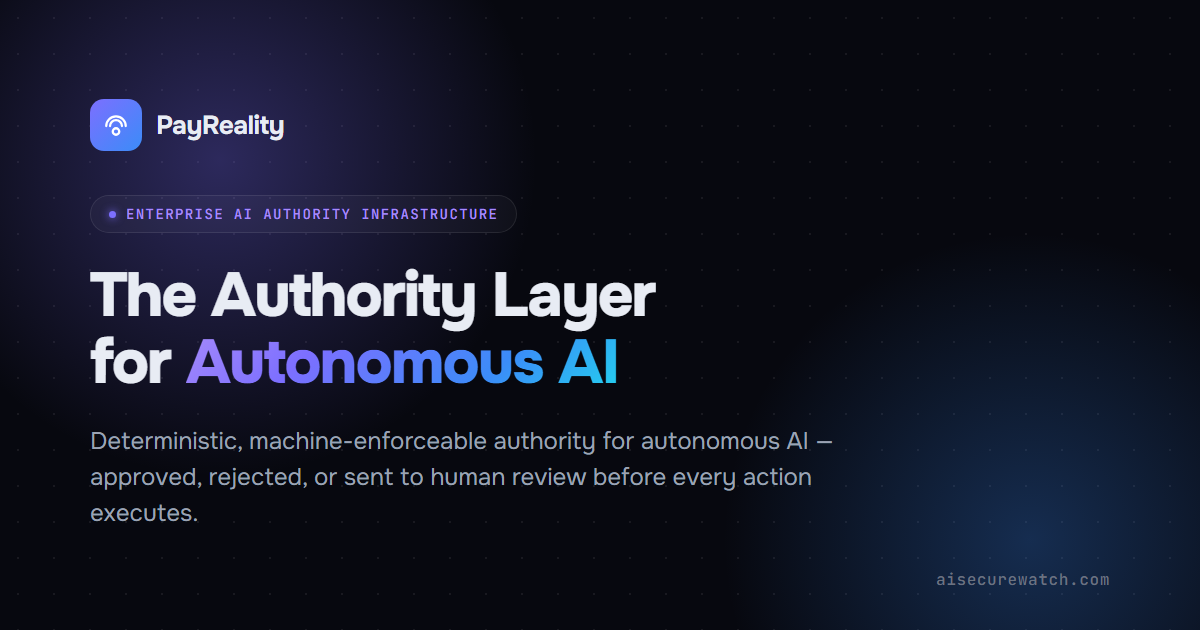
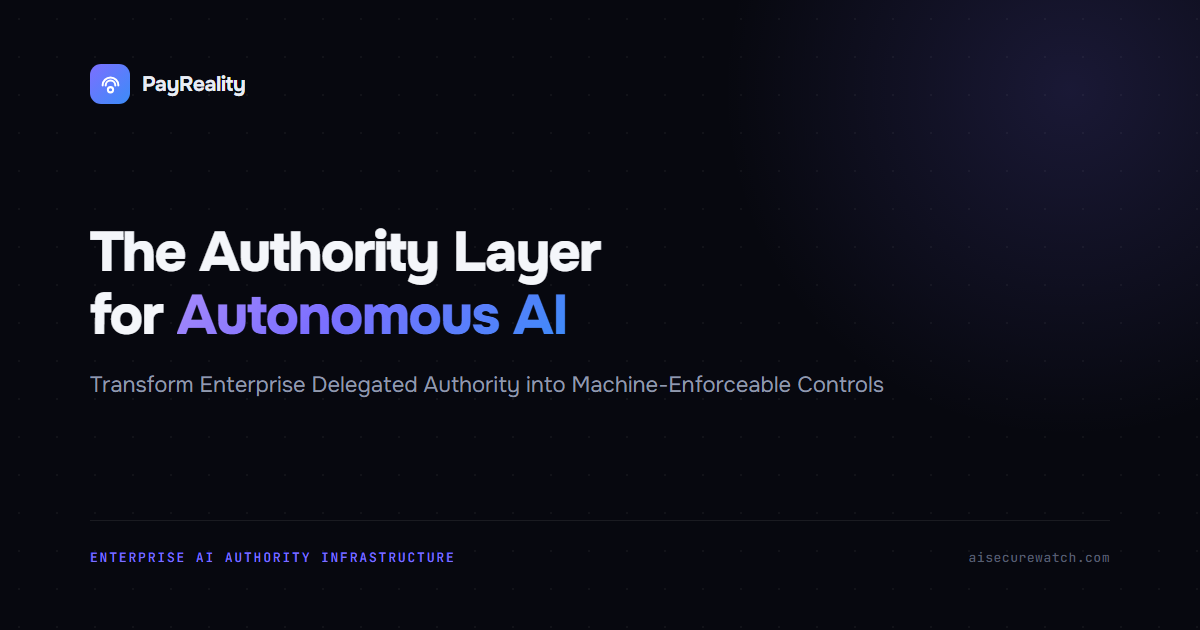
Sharpen category positioning in metadata and social card
- index.html: meta description now opens with the category name itself
  ("Enterprise AI Authority Infrastructure.") rather than generic feature
  copy, and packs in delegated authority / machine-enforceable authority /
  before-execution enforcement in <160 chars. Removed <meta name="keywords">
  (Google has ignored it since 2009). Expanded JSON-LD: added a Brand node
  for PayReality (distinct from the AI Securewatch Organization), tagged
  SoftwareApplication as ["SoftwareApplication","Product"], added
  applicationSubCategory: "Enterprise AI Authority Infrastructure" and a
  keywords property carrying the secondary concepts (Delegated Authority,
  Authority Runtime, AI Decision Infrastructure, Machine-Enforceable Policy,
  Enterprise AI Controls, Autonomous AI), and linked WebSite -> SoftwareApplication
  via "about" so the site's topic is explicit. No Founder/foundingDate added
  since neither is known — not guessing at facts.
- public/og-image.png: replaced the previous card with a more restrained
  composition matching the requested copy exactly (headline / subheading /
  footer category label), dropping the pill badge and second gradient orb
  so it reads as infrastructure branding rather than a marketing flyer.

diff --git a/index.html b/index.html
@@ -8,8 +8,7 @@
 
       <!-- Primary SEO -->
       <title>PayReality | Enterprise AI Authority Infrastructure</title>
-      <meta name="description" content="The enterprise authority layer for autonomous AI. PayReality turns delegated authority and approval policy into deterministic, machine-enforceable controls." />
-      <meta name="keywords" content="enterprise AI, AI governance, delegated authority, AI policy enforcement, AI runtime controls, AI decision infrastructure, AI authority, autonomous AI, enterprise AI security, AI risk, AI compliance, AI audit, machine enforceable policy, enterprise AI infrastructure" />
+      <meta name="description" content="Enterprise AI Authority Infrastructure. PayReality turns delegated authority into machine-enforceable authority, enforced before AI executes." />
       <meta name="robots" content="index, follow" />
       <meta name="googlebot" content="index, follow" />
       <meta name="author" content="AI Securewatch" />
@@ -58,8 +57,18 @@
                 "width": 512,
                 "height": 512
               },
-              "description": "AI Securewatch builds PayReality, the enterprise authority layer for autonomous AI.",
-              "email": "[email redacted]"
+              "description": "AI Securewatch builds PayReality, Enterprise AI Authority Infrastructure for autonomous AI.",
+              "email": "[email redacted]",
+              "brand": { "@id": "https://aisecurewatch.com/#brand" }
+            },
+            {
+              "@type": "Brand",
+              "@id": "https://aisecurewatch.com/#brand",
+              "name": "PayReality",
+              "slogan": "The Authority Layer for Autonomous AI",
+              "description": "PayReality is Enterprise AI Authority Infrastructure: it transforms existing delegated authority into deterministic, machine-enforceable authority for autonomous AI.",
+              "logo": "https://aisecurewatch.com/android-chrome-512x512.png",
+              "url": "https://aisecurewatch.com/"
             },
             {
               "@type": "WebSite",
@@ -68,17 +77,21 @@
               "name": "PayReality",
               "description": "The enterprise authority layer for autonomous AI.",
               "publisher": { "@id": "https://aisecurewatch.com/#organization" },
+              "about": { "@id": "https://aisecurewatch.com/#software" },
               "inLanguage": "en-US"
             },
             {
-              "@type": "SoftwareApplication",
+              "@type": ["SoftwareApplication", "Product"],
               "@id": "https://aisecurewatch.com/#software",
               "name": "PayReality",
               "url": "https://aisecurewatch.com/",
               "applicationCategory": "BusinessApplication",
+              "applicationSubCategory": "Enterprise AI Authority Infrastructure",
               "operatingSystem": "Web",
               "description": "PayReality compiles delegation of authority policy into deterministic, machine-enforceable rules and evaluates every AI agent intent against it before execution, returning Approve, Reject, or Human Review with cryptographically verifiable evidence.",
-              "brand": { "@id": "https://aisecurewatch.com/#organization" },
+              "keywords": "Delegated Authority, Authority Runtime, AI Decision Infrastructure, Machine-Enforceable Policy, Enterprise AI Controls, Autonomous AI",
+              "brand": { "@id": "https://aisecurewatch.com/#brand" },
+              "manufacturer": { "@id": "https://aisecurewatch.com/#organization" },
               "publisher": { "@id": "https://aisecurewatch.com/#organization" },
               "image": "https://aisecurewatch.com/og-image.png"
             }